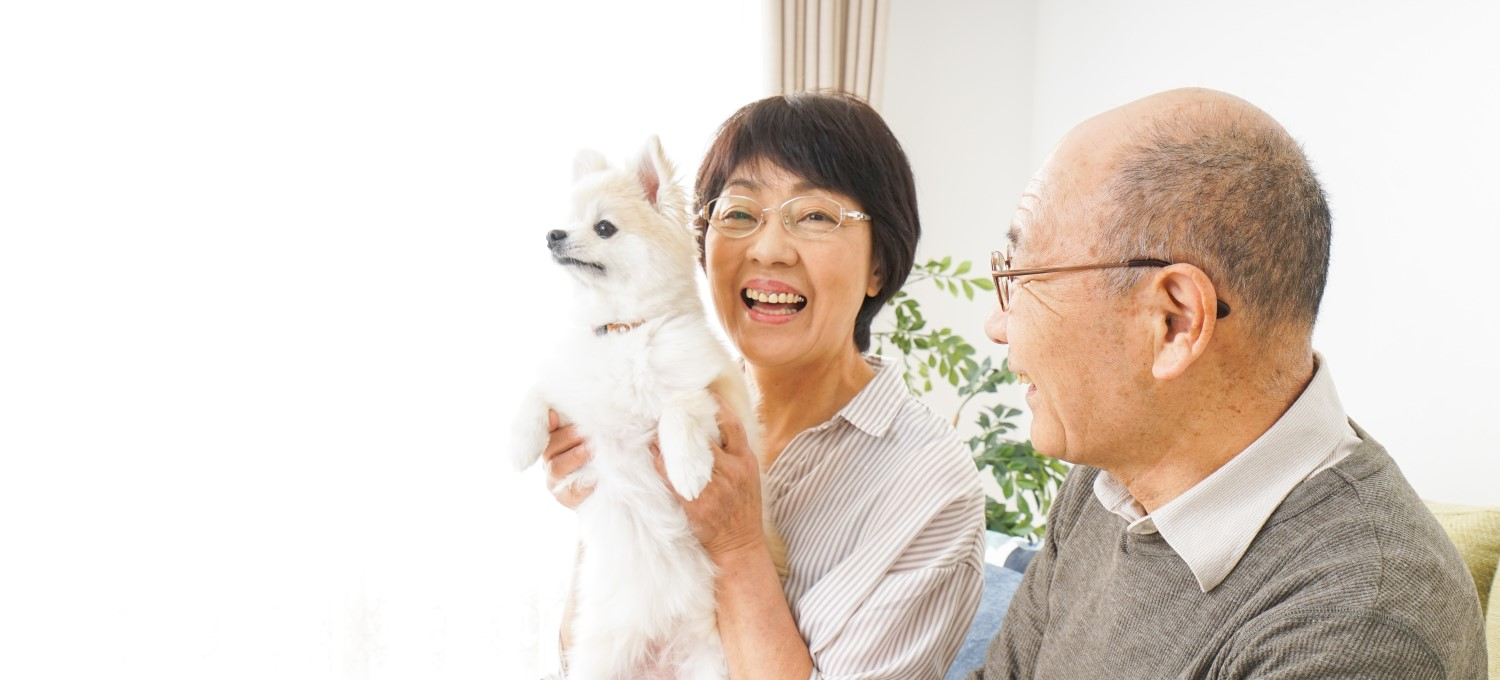
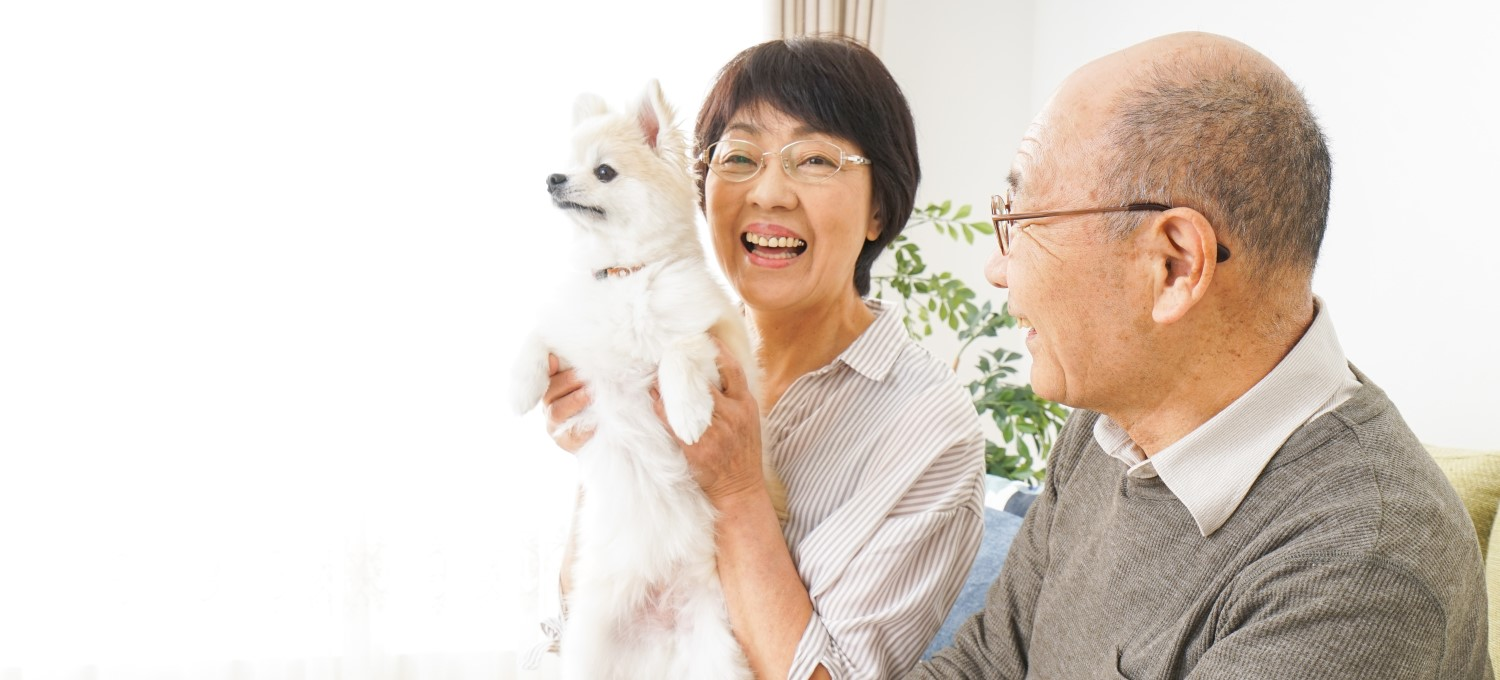
up

diff --git a/docs/demo02/feature.html b/docs/demo02/feature.html
@@ -131,7 +131,7 @@
 	</aside>
 
 	<!-- Title Page -->
-	<section class="bg-title-page flex-c-m p-t-160 p-b-80 p-l-15 p-r-15" style="background-image: url(assets/img/feature/bg-title-feature.jpg);">
+	<section class="bg-title-page flex-c-m p-t-160 p-b-80 p-l-15 p-r-15" style="background-image: url(assets/img/feature/bg-title-feature1.jpg);">
 		<!-- <h2 class="tit12 t-center">
 			愛犬と暮らすという選択
 		</h2> -->
